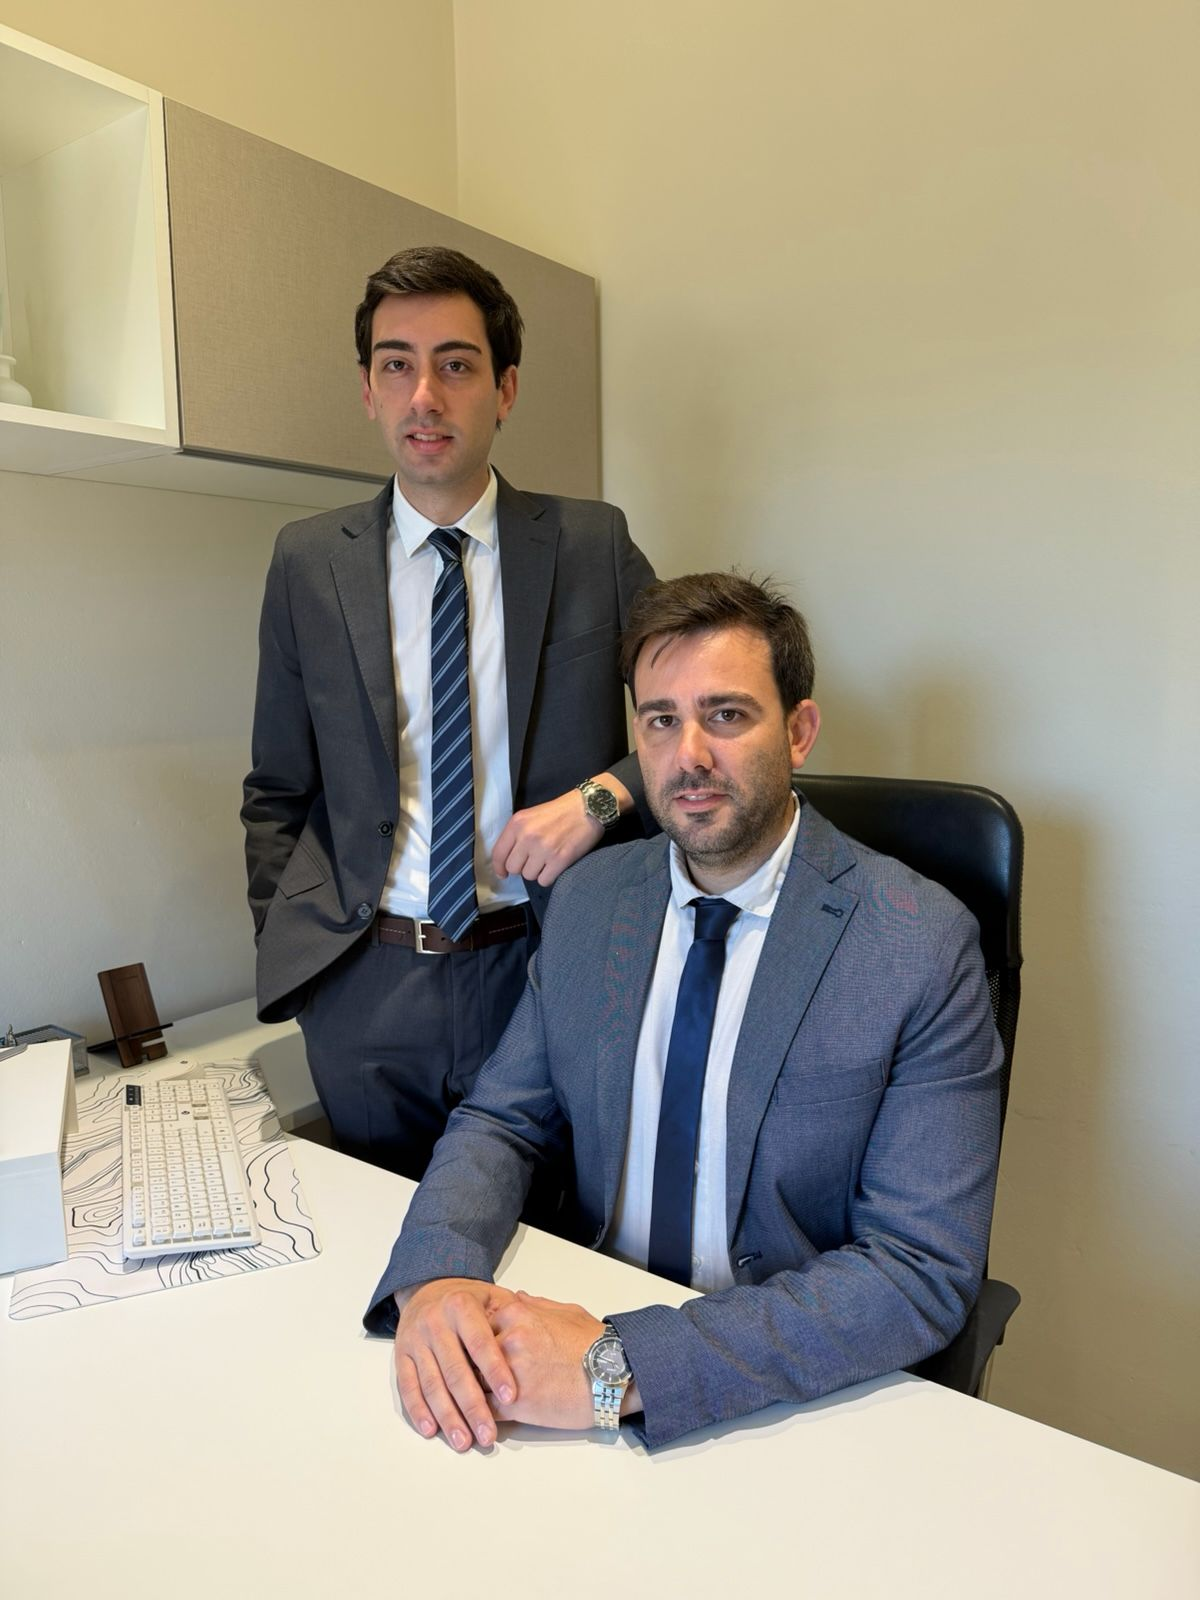
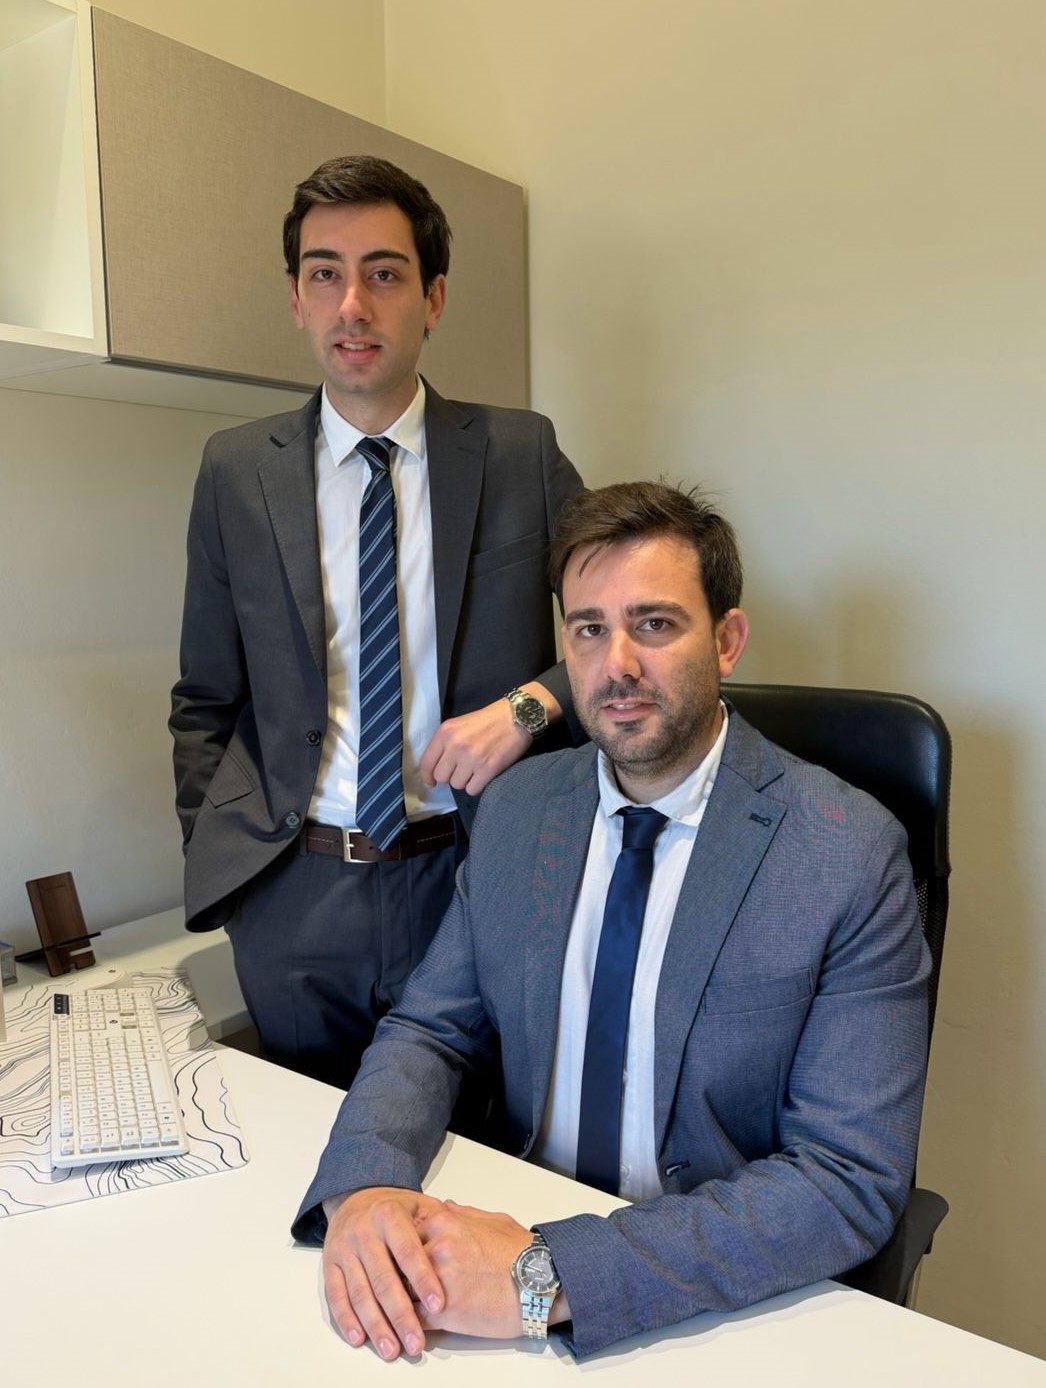
imagen agregada

diff --git a/css/index.css b/css/index.css
@@ -2,6 +2,14 @@
    ESTILOS EXCLUSIVOS PARA LA PORTADA (INDEX.HTML)
    ========================================================================== */
 
+/* Centrado vertical y aire general en pantallas de notebook */
+.hero-section {
+    padding: 60px 0;
+    min-height: calc(100vh - 90px); /* Ocupa el alto disponible descontando la barra de navegación */
+    display: flex;
+    align-items: center;
+}
+
 /* Título de Impacto Comercial */
 .hero-titulo-principal {
     color: var(--color-primario-azul);
@@ -12,7 +20,7 @@
 }
 
 .texto-resaltado {
-    color: #2a4b8c; /* Un azul sutilmente más eléctrico para dar contraste */
+    color: #2a4b8c; /* Azul con ligero contraste para destacar la propuesta de valor */
     position: relative;
     display: inline-block;
 }
@@ -41,7 +49,7 @@
     line-height: 1.65;
 }
 
-/* ✨ NUEVO ENMARCADO PREMIUM PARA LA FOTO */
+/* ✨ ENMARCADO PREMIUM Y FLOTANTE PARA LA FOTO */
 .hero-imagen-marco {
     background: #ffffff;
     padding: 12px;
@@ -49,6 +57,10 @@
     border: 1px solid rgba(25, 50, 100, 0.08);
     box-shadow: 0 20px 50px rgba(25, 50, 100, 0.1);
     transition: all 0.5s ease;
+    display: inline-block;
+    width: 100%;
+    max-width: 580px; /* Ancho máximo ideal para notebooks */
+    margin: 0 auto;
 }
 
 .hero-imagen-marco:hover {
@@ -56,11 +68,13 @@
     box-shadow: 0 30px 60px rgba(25, 50, 100, 0.15);
 }
 
-.hero-imagen-estudio-nueva {
+/* 🖼 AJUSTE DE IMAGEN: Mantiene la proporción original completa sin recortar nada arriba ni abajo */
+.hero-imagen-estudio-nueva,
+.hero-imagen-estudio {
     width: 100%;
-    height: auto;
-    object-fit: cover;
-    border-radius: 12px; /* Redondeado interno que hace juego con el marco */
+    height: auto !important; /* Mantiene la proporción natural de la fotografía */
+    display: block;
+    border-radius: 12px; /* Redondeado interno que encaja con el marco */
 }
 
 /* Botón secundario estilizado */
@@ -92,5 +106,17 @@
     to {
         opacity: 1;
         transform: translateY(0);
+    }
+}
+
+/* Ajuste adaptativo (Responsive) para celulares y tablets */
+@media (max-width: 991px) {
+    .hero-section {
+        padding: 40px 0;
+        min-height: auto;
+    }
+    
+    .hero-titulo-principal {
+        font-size: 2.3rem;
     }
 }

diff --git a/nosotros.html b/nosotros.html
@@ -92,10 +92,10 @@
                     </div>
                 </div>
 
-                <!-- Tarjeta 3: Carolina Airaudo -->
+               
             <div class="col-md-6 col-lg-4">
                 <div class="tarjeta-equipo h-100 position-relative">
-                    <!-- CARTEL DE COLABORADOR -->
+                   
                     <span class="badge-rol colaborador">Colaborador</span>
                     
                     <div class="imagen-equipo-contenedor">
@@ -107,11 +107,7 @@
                             <i class="bi bi-person-badge-fill me-2"></i>Integrante del Equipo y Lic. en Recursos Humanos
                         </p>
                         
-                        <!-- 
-                        SOLUCIÓN: Cambiamos <blockquote> por un <div> con un párrafo normal.
-                        Le agregamos un margen superior (mt-4) y un estilo limpio para que 
-                        mantenga la misma alineación que las frases de Bruno y Pablo, pero sin comillas.
-                        -->
+                       
                         <div class="mt-4 pt-1">
                             <p class="text-muted mb-0 lh-base" style="font-size: 1.02rem;">
                                 Brinda asesoramiento en gestión de personas, administración laboral y desarrollo organizacional, contribuyendo al crecimiento y fortalecimiento de empresas y equipos de trabajo.
